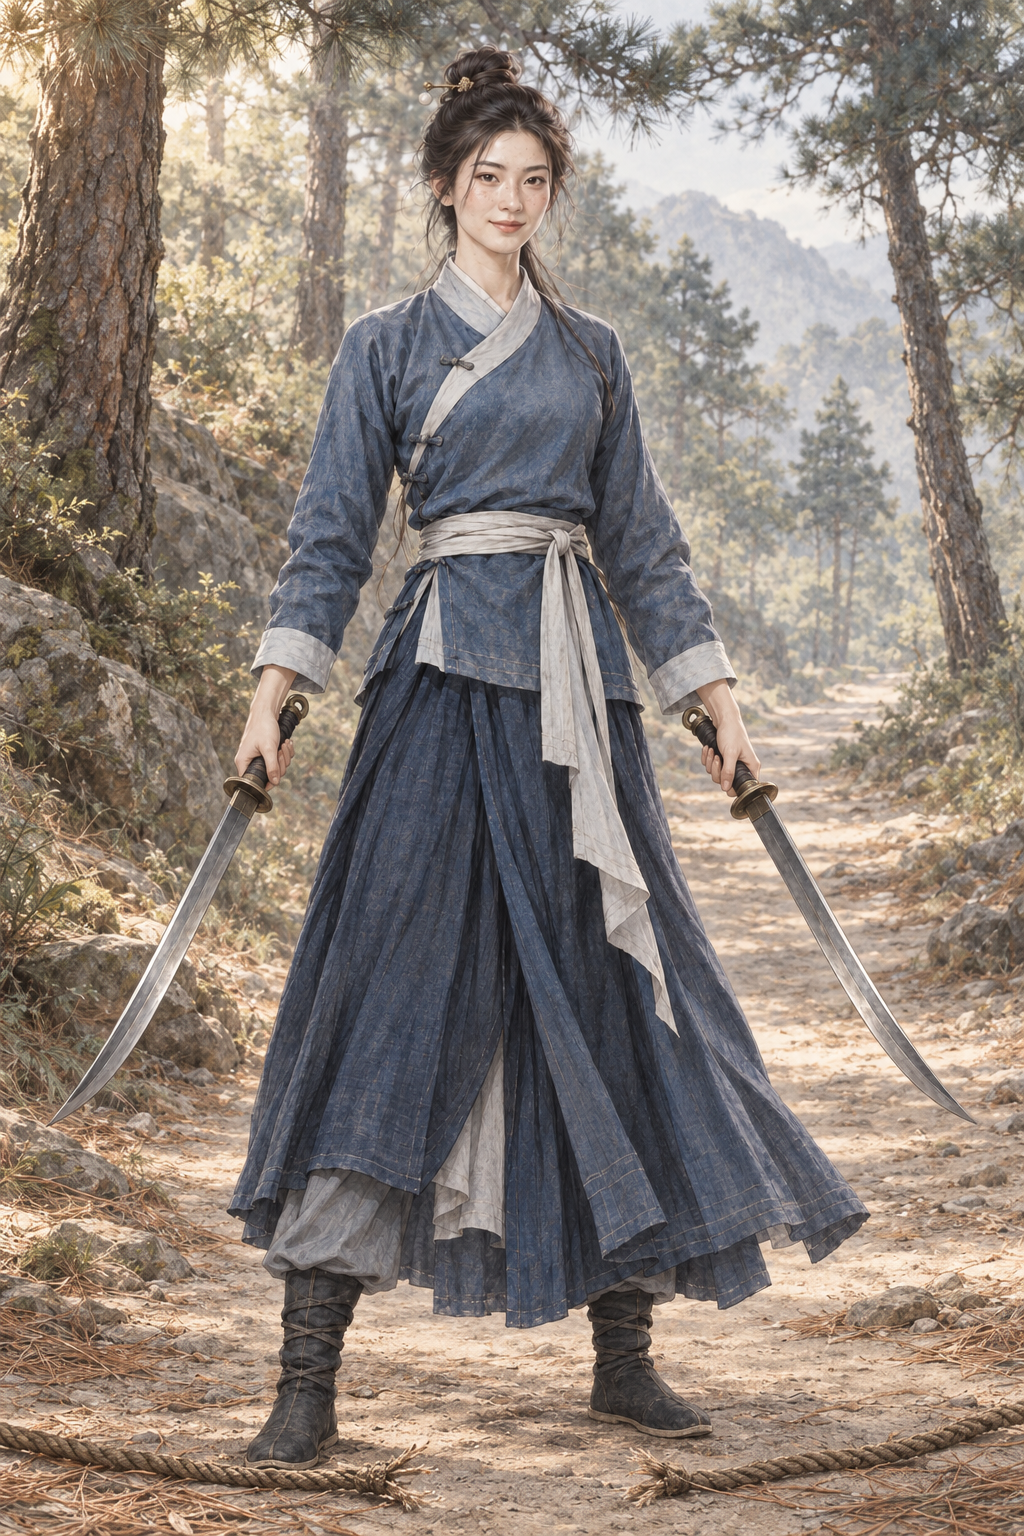
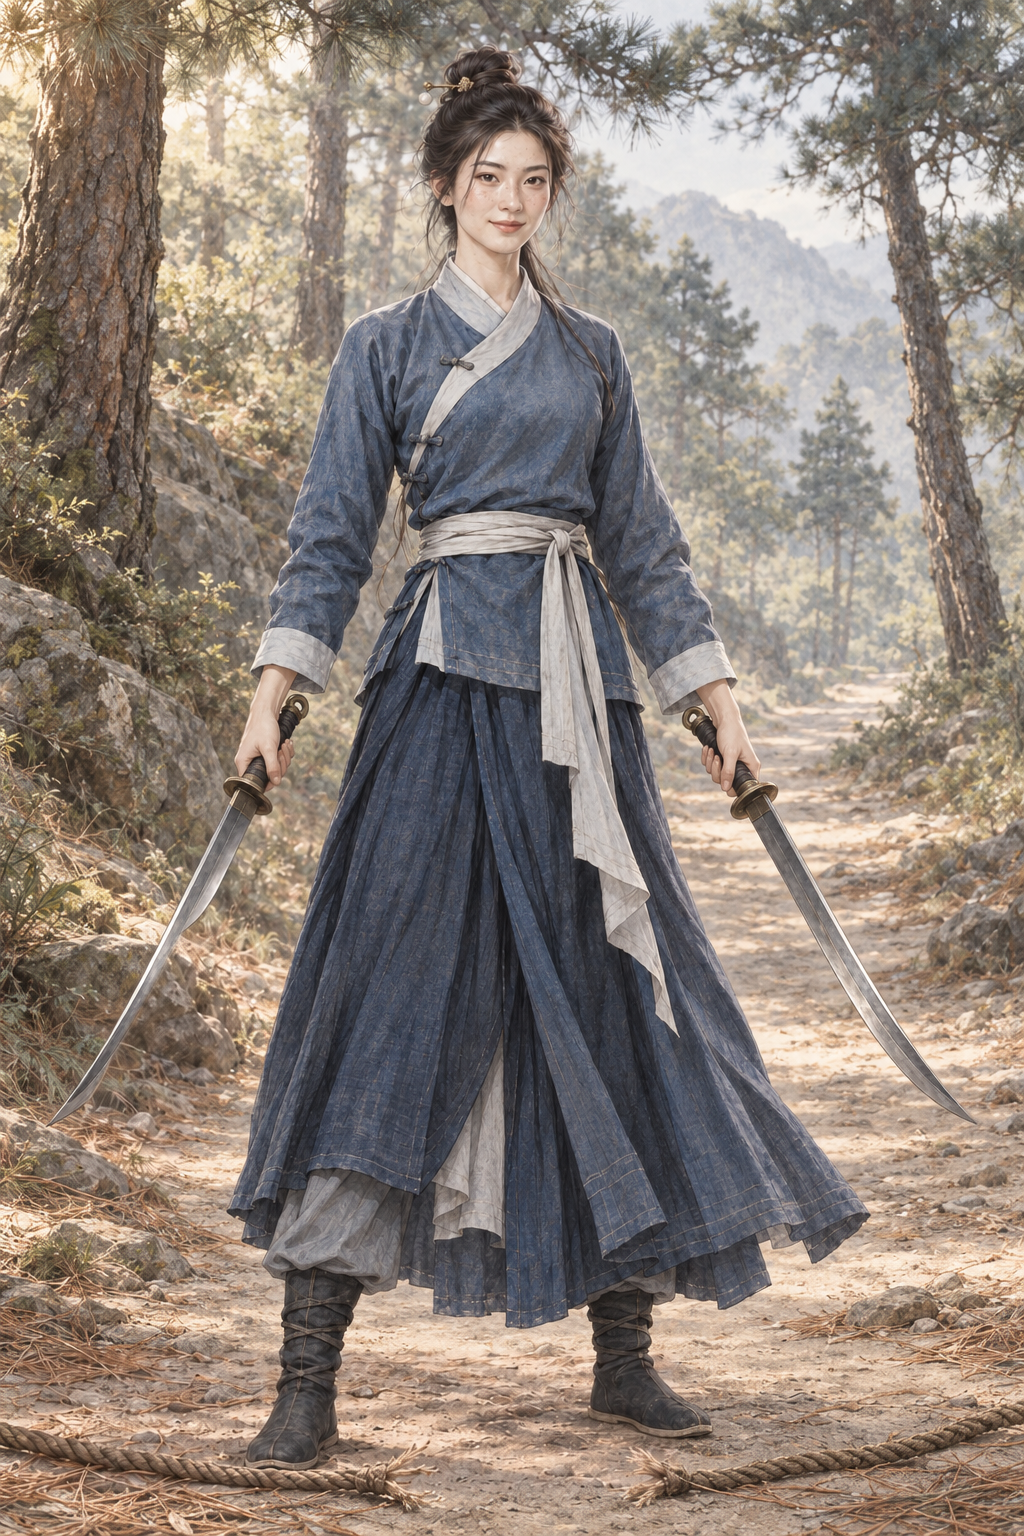
assets: AR-82 原著核对返修 萧中慧
修正原著明确的服饰、器物或剧情状态；编辑范围外像素保持，保留既定面容；同步原著摘句及当前返修要求。

Executed-By: Codex gpt-6.1-sol（AR-82）

diff --git a/assets/default/prompts/characters/ch11-yuanyang/npc_xiaozhonghui__scene_pine_cut_rope.md b/assets/default/prompts/characters/ch11-yuanyang/npc_xiaozhonghui__scene_pine_cut_rope.md
@@ -51,3 +51,16 @@ size: 1024x1536
 
 - 参考分工见实际提示词；配色、姿势、取景及成年化均为（原创扩展）。
 - 本轮结果已逐图目检并入库为 candidate；实际作业与参考哈希见 manifest。
+
+
+## 原著依据
+
+- AR-82 返修依据：《鸳鸯刀》转载第四节：“右手短刀”“左手长刀”。；来源：https://www.kanunu8.com/book6/yuanyangdao/50466.html；执行：萧中慧自己的普通双刀：本人右手短刀、左手长刀，刀刃长度显著不同；尚未取得鸳鸯刀，不标神兵。
+- AR-82 返修依据：《鸳鸯刀》转载第二节：“俯身右手一刀割断了绊马索”。；来源：https://www.kanunu8.com/book6/yuanyangdao/50464.html；执行：若此图用于松林割索事件，改为骑马俯身挥右手短刀、切开横拉绊索；如保留割索后站立的概念取样，标签明确“割索之后”，用刀势与断索方向加强事件提示。
+
+
+## AR-82 当前返修约束
+
+本图明确是松林割索之后的单人场景取样，保持现站立姿态和双手位置。本人右手（画面左侧）普通柳叶刀刃缩短到原来的一半，左手（画面右侧）长刀不变，短刀刀口指向脚旁刚割断绊马索的断口；脚边现有两段断索仍清楚分开，断口呈刚切开纤维，让断索方向对应右手短刀的收势。不是鸳鸯宝刀。
+
+以本节及原著依据为当前要求，历史提示词与本节冲突时按本节执行；保留作者选定脸、原画质感与对应剧情阶段。
